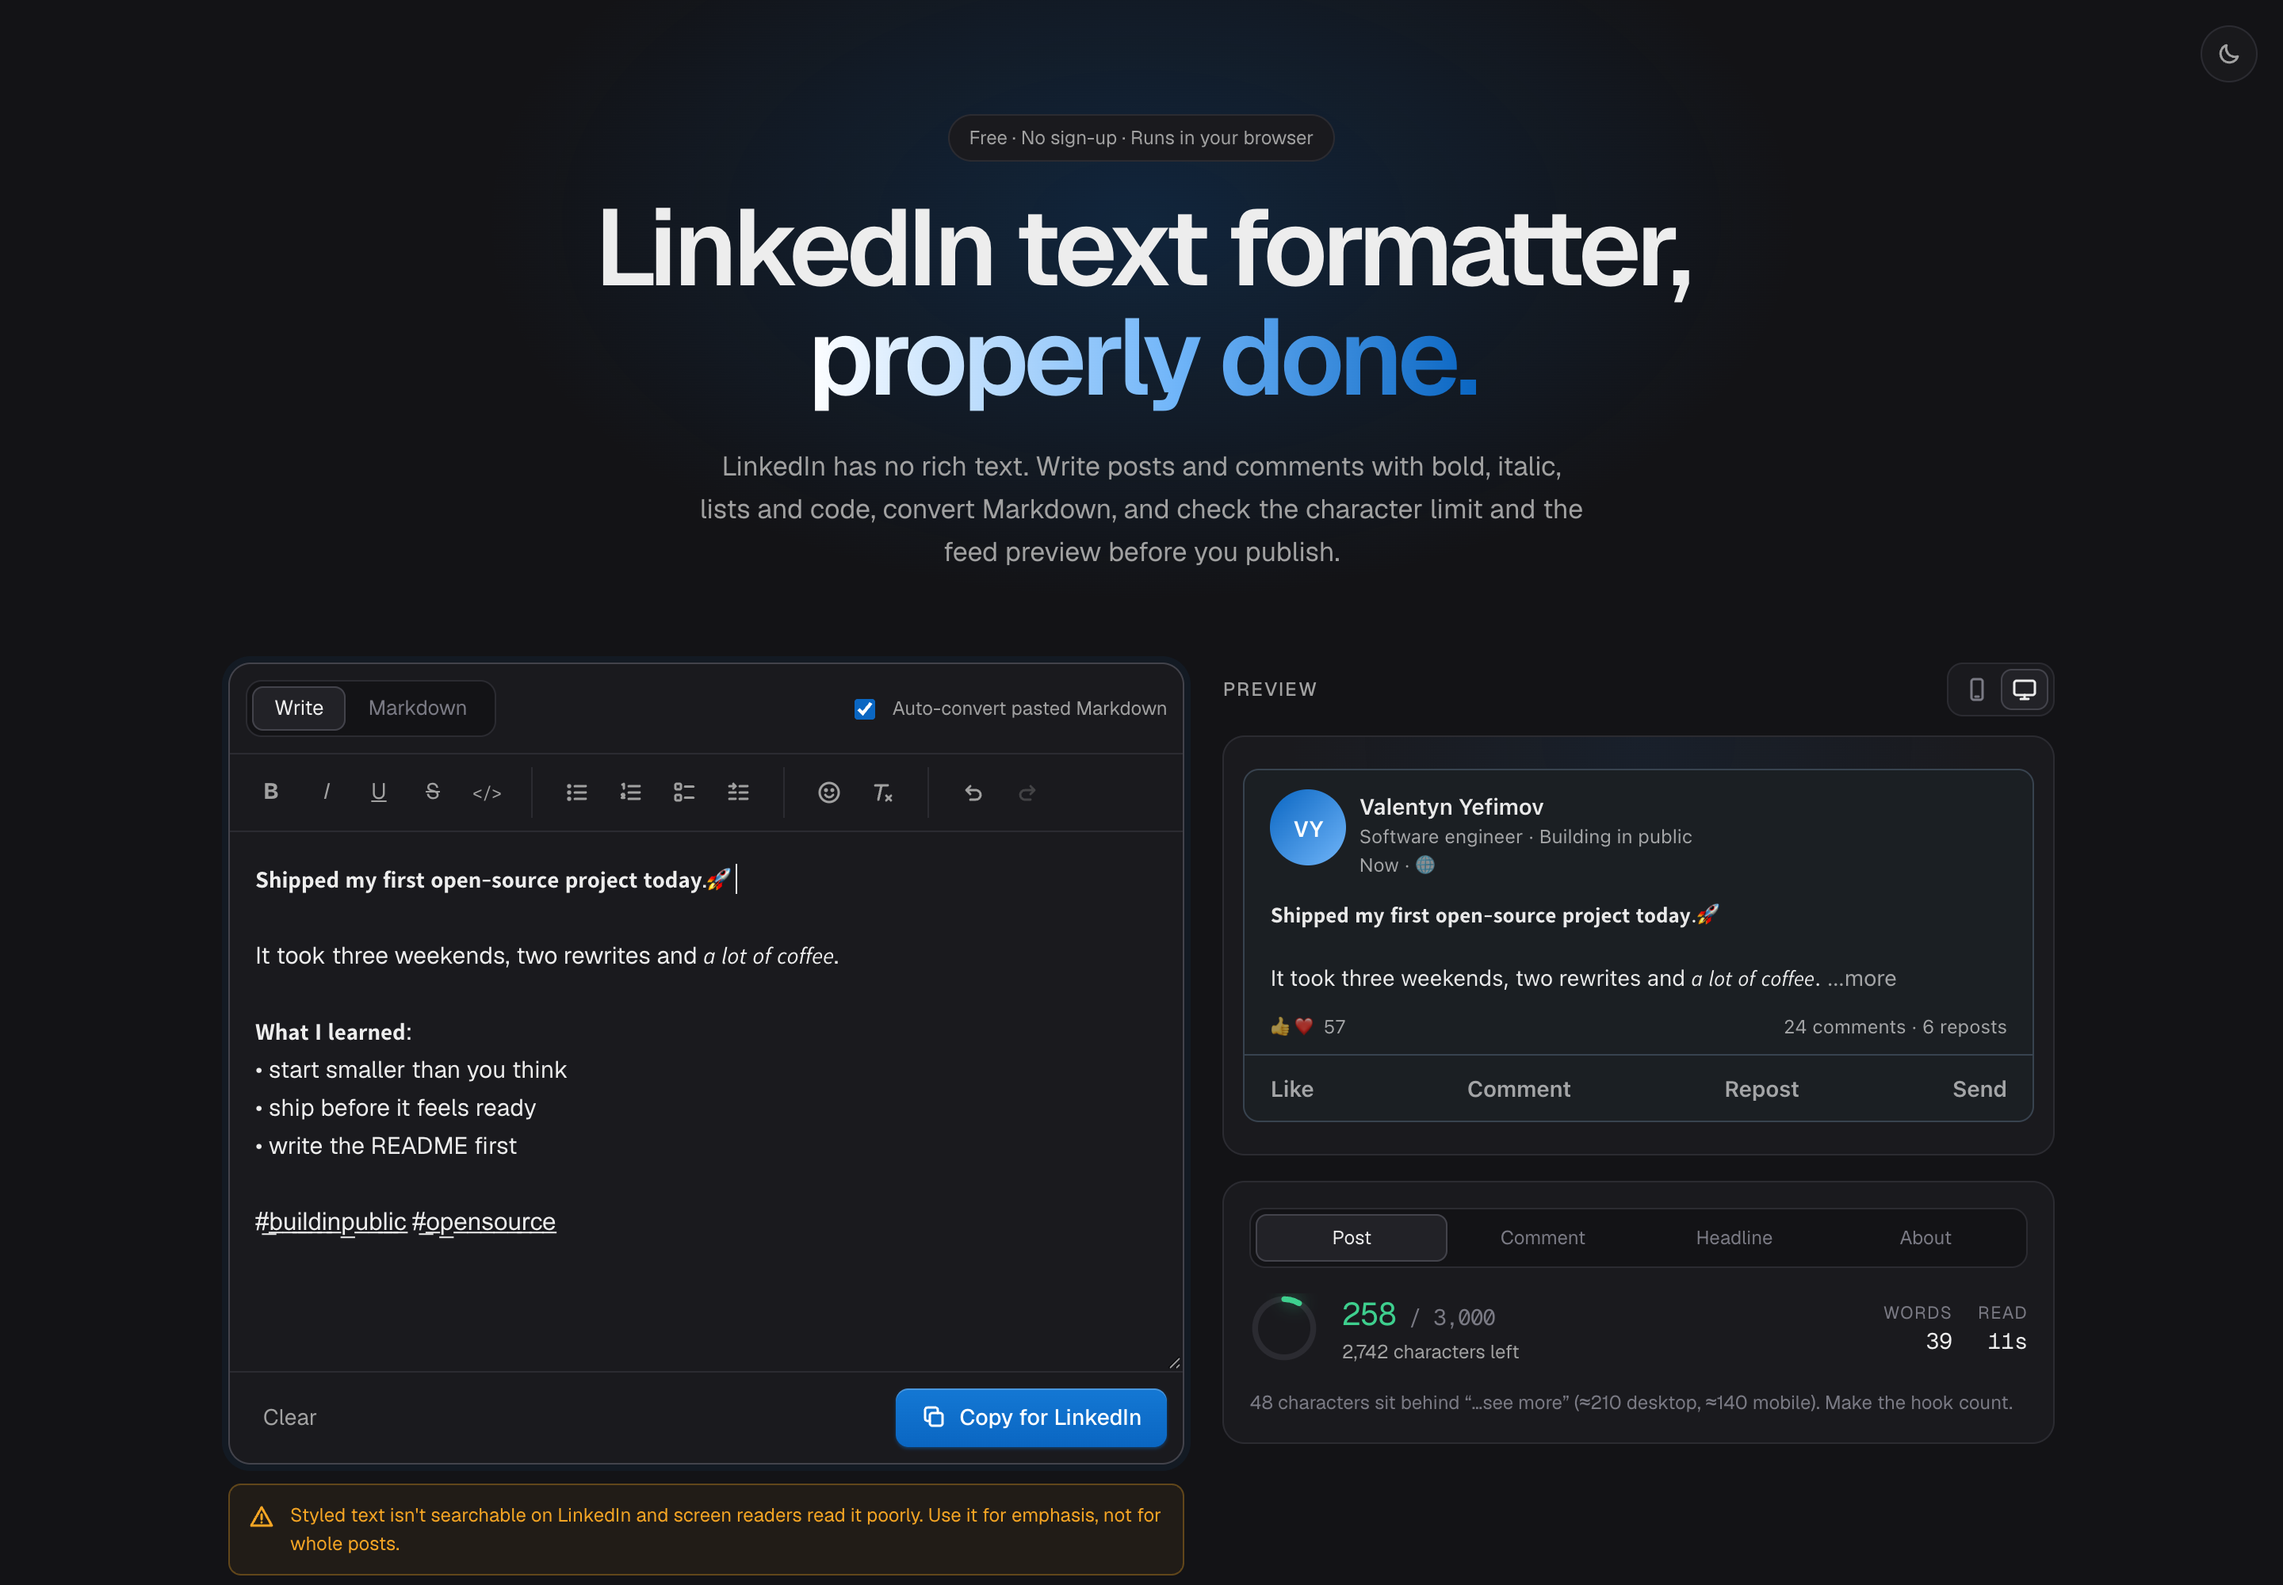
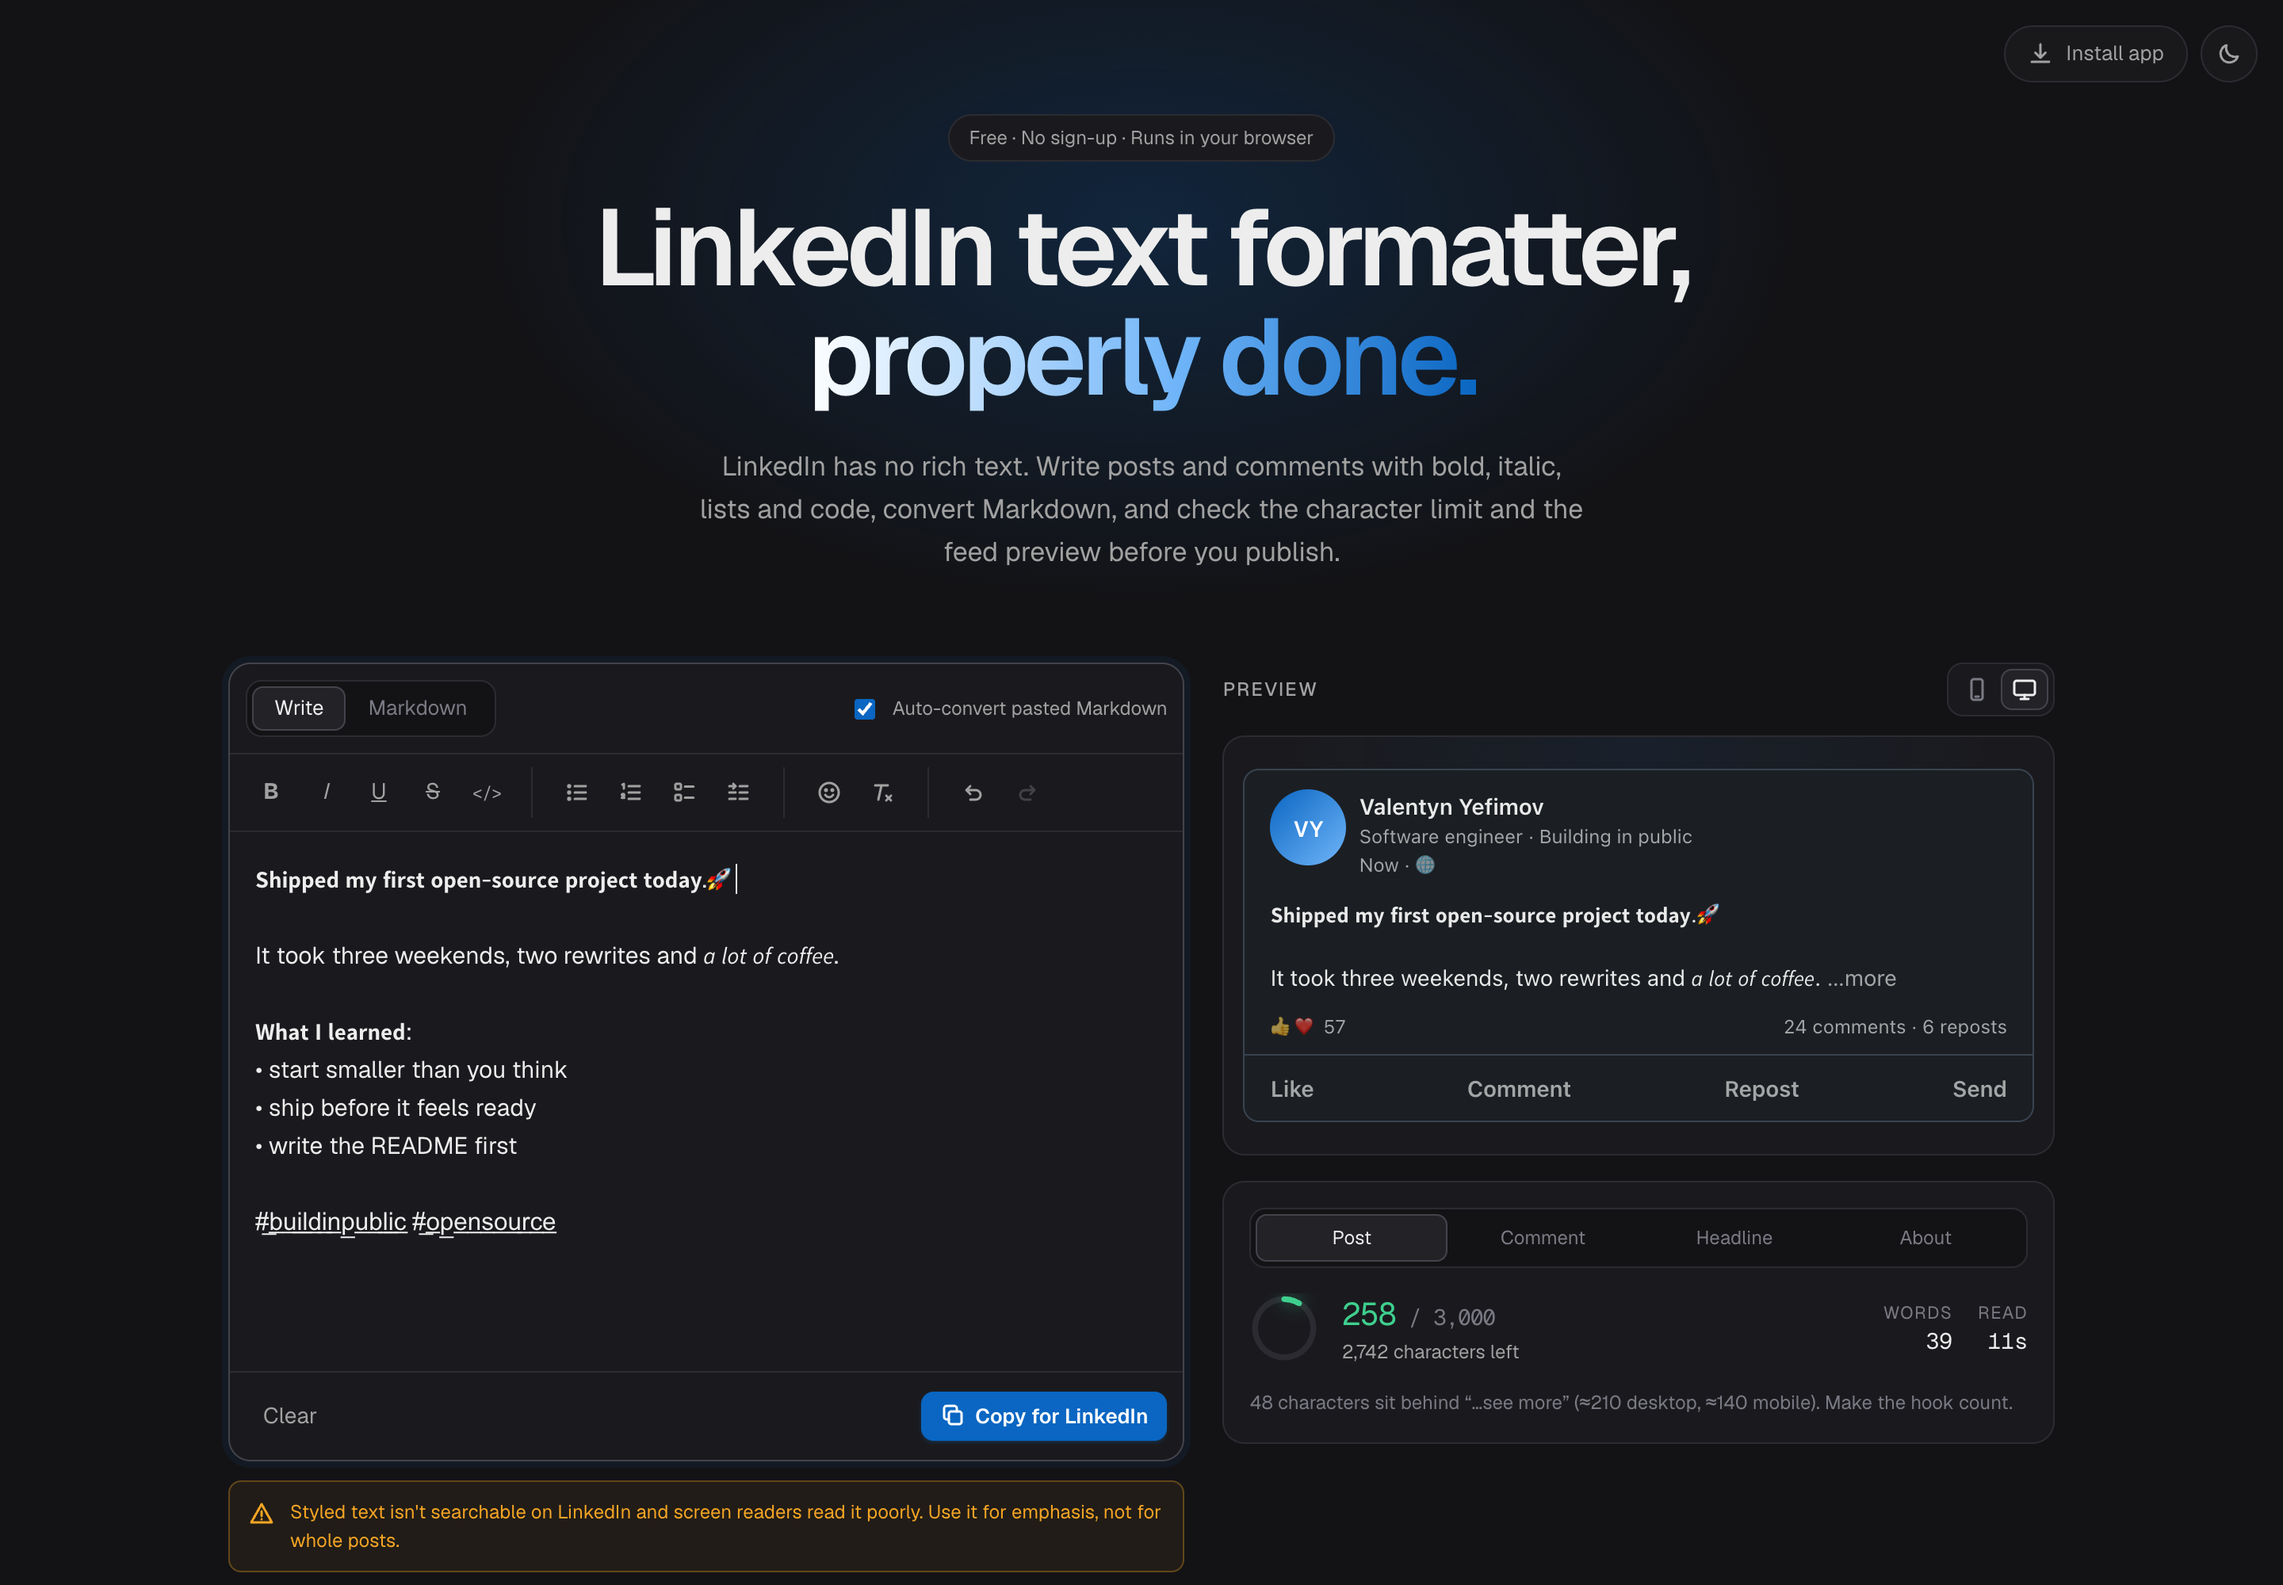
docs: remove the demo video and poster from the repo

Changed region(s): [[0.0938, 0.868, 0.5312, 1.0], [0.9062, 0.031, 0.9375, 0.062]]

diff --git a/README.md b/README.md
@@ -4,10 +4,6 @@
 
 ![LinkedIn Text Formatter: editor, feed preview and character counter](docs/screenshot.png)
 
-[![Watch the demo video](docs/demo-poster.png)](docs/demo.mp4)
-
-*Click the poster to watch the 87-second demo (narrated, with captions and music).*
-
 Write LinkedIn posts with **bold**, *italic*, underline, strikethrough, `monospace` code and lists,
 convert Markdown to LinkedIn-ready text, and preview the post as it will look in the feed.
 
